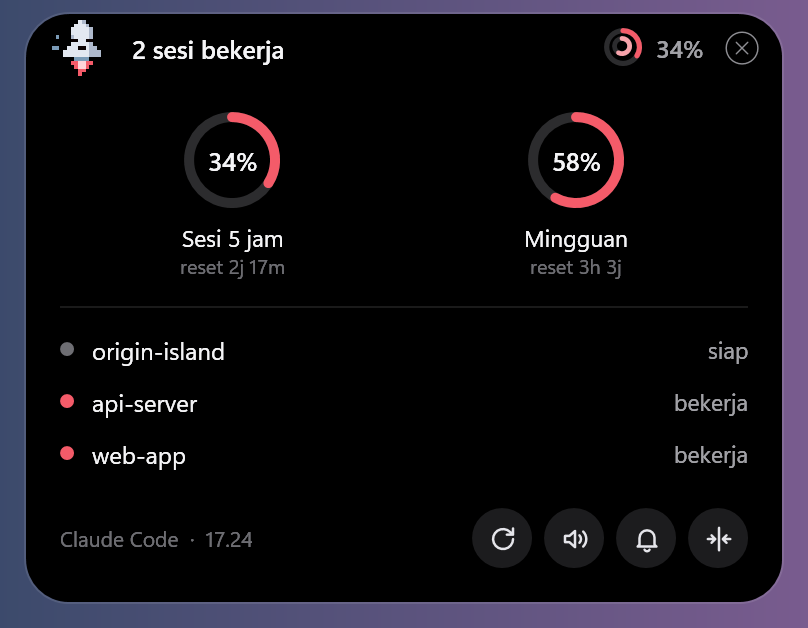
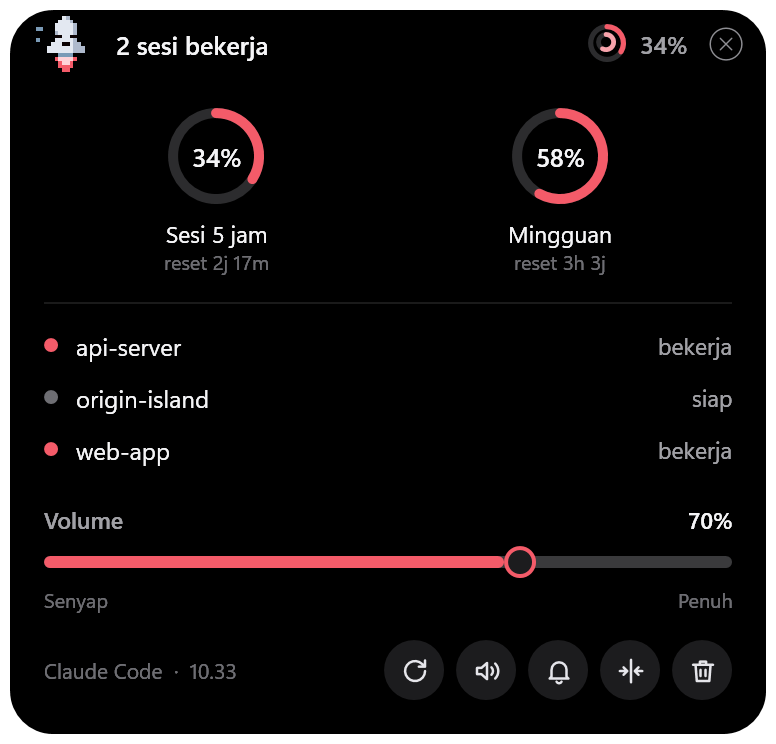
docs(site): perbarui gambar panel dengan slider volume

Changed region(s): [[0.0, 0.0, 1.0, 1.0], [0.6495, 0.121, 0.8041, 0.4538], [0.2474, 0.8471, 0.3093, 0.9076]]

diff --git a/docs/index.html b/docs/index.html
@@ -237,7 +237,7 @@
           <figure class="shot"><img src="img/working.png" width="496" height="88" alt="Pil Origin Island saat Claude bekerja di proyek web-app." loading="lazy"><figcaption>Bekerja: nama proyek ikut tampil</figcaption></figure>
           <figure class="shot shots__wide"><img src="img/attention.png" width="776" height="370" alt="Notifikasi Origin Island: Claude butuh izin untuk menjalankan Bash di proyek api-server." loading="lazy"><figcaption>Butuh izin: notifikasi + suara</figcaption></figure>
         </div>
-        <figure class="shot shots__wide"><img src="img/hover.png" width="776" height="608" alt="Panel Origin Island saat disorot: cincin kuota sesi 5 jam 34% dan mingguan 58%, tiga sesi aktif, dan tombol perbarui, suara, tes suara, serta ke tengah." loading="lazy"><figcaption>Saat disorot: kuota, sesi aktif, dan tombol</figcaption></figure>
+        <figure class="shot shots__wide"><img src="img/hover.png" width="776" height="744" alt="Panel Origin Island saat disorot: cincin kuota sesi 5 jam 34% dan mingguan 58%, tiga sesi aktif, slider volume 70%, dan tombol perbarui, suara, tes suara, ke tengah, serta uninstall." loading="lazy"><figcaption>Saat disorot: kuota, sesi aktif, volume, dan tombol</figcaption></figure>
       </div>
 
       <!-- Anatomi notifikasi selesai -->

diff --git a/README.md b/README.md
@@ -29,7 +29,7 @@ Dibuat oleh **[Gus Khamim](https://guskhamim.com)** · [Situs resmi](https://ami
 |---|---|
 | **Siaga** — maskot + cincin kuota (luar: 5 jam, dalam: mingguan) | ![Siaga](docs/idle.png) |
 | **Bekerja** — maskot bekerja, nama proyek tampil | ![Bekerja](docs/working.png) |
-| **Hover** — detail kuota, sesi aktif, tombol | ![Hover](docs/hover.png) |
+| **Hover** — detail kuota, sesi aktif, volume, tombol | ![Hover](docs/hover.png) |
 | **Butuh izin** — notifikasi + suara | ![Butuh izin](docs/attention.png) |
 | **Selesai** — cuplikan balasan terakhir Claude + suara | ![Selesai](docs/done.png) |
 
